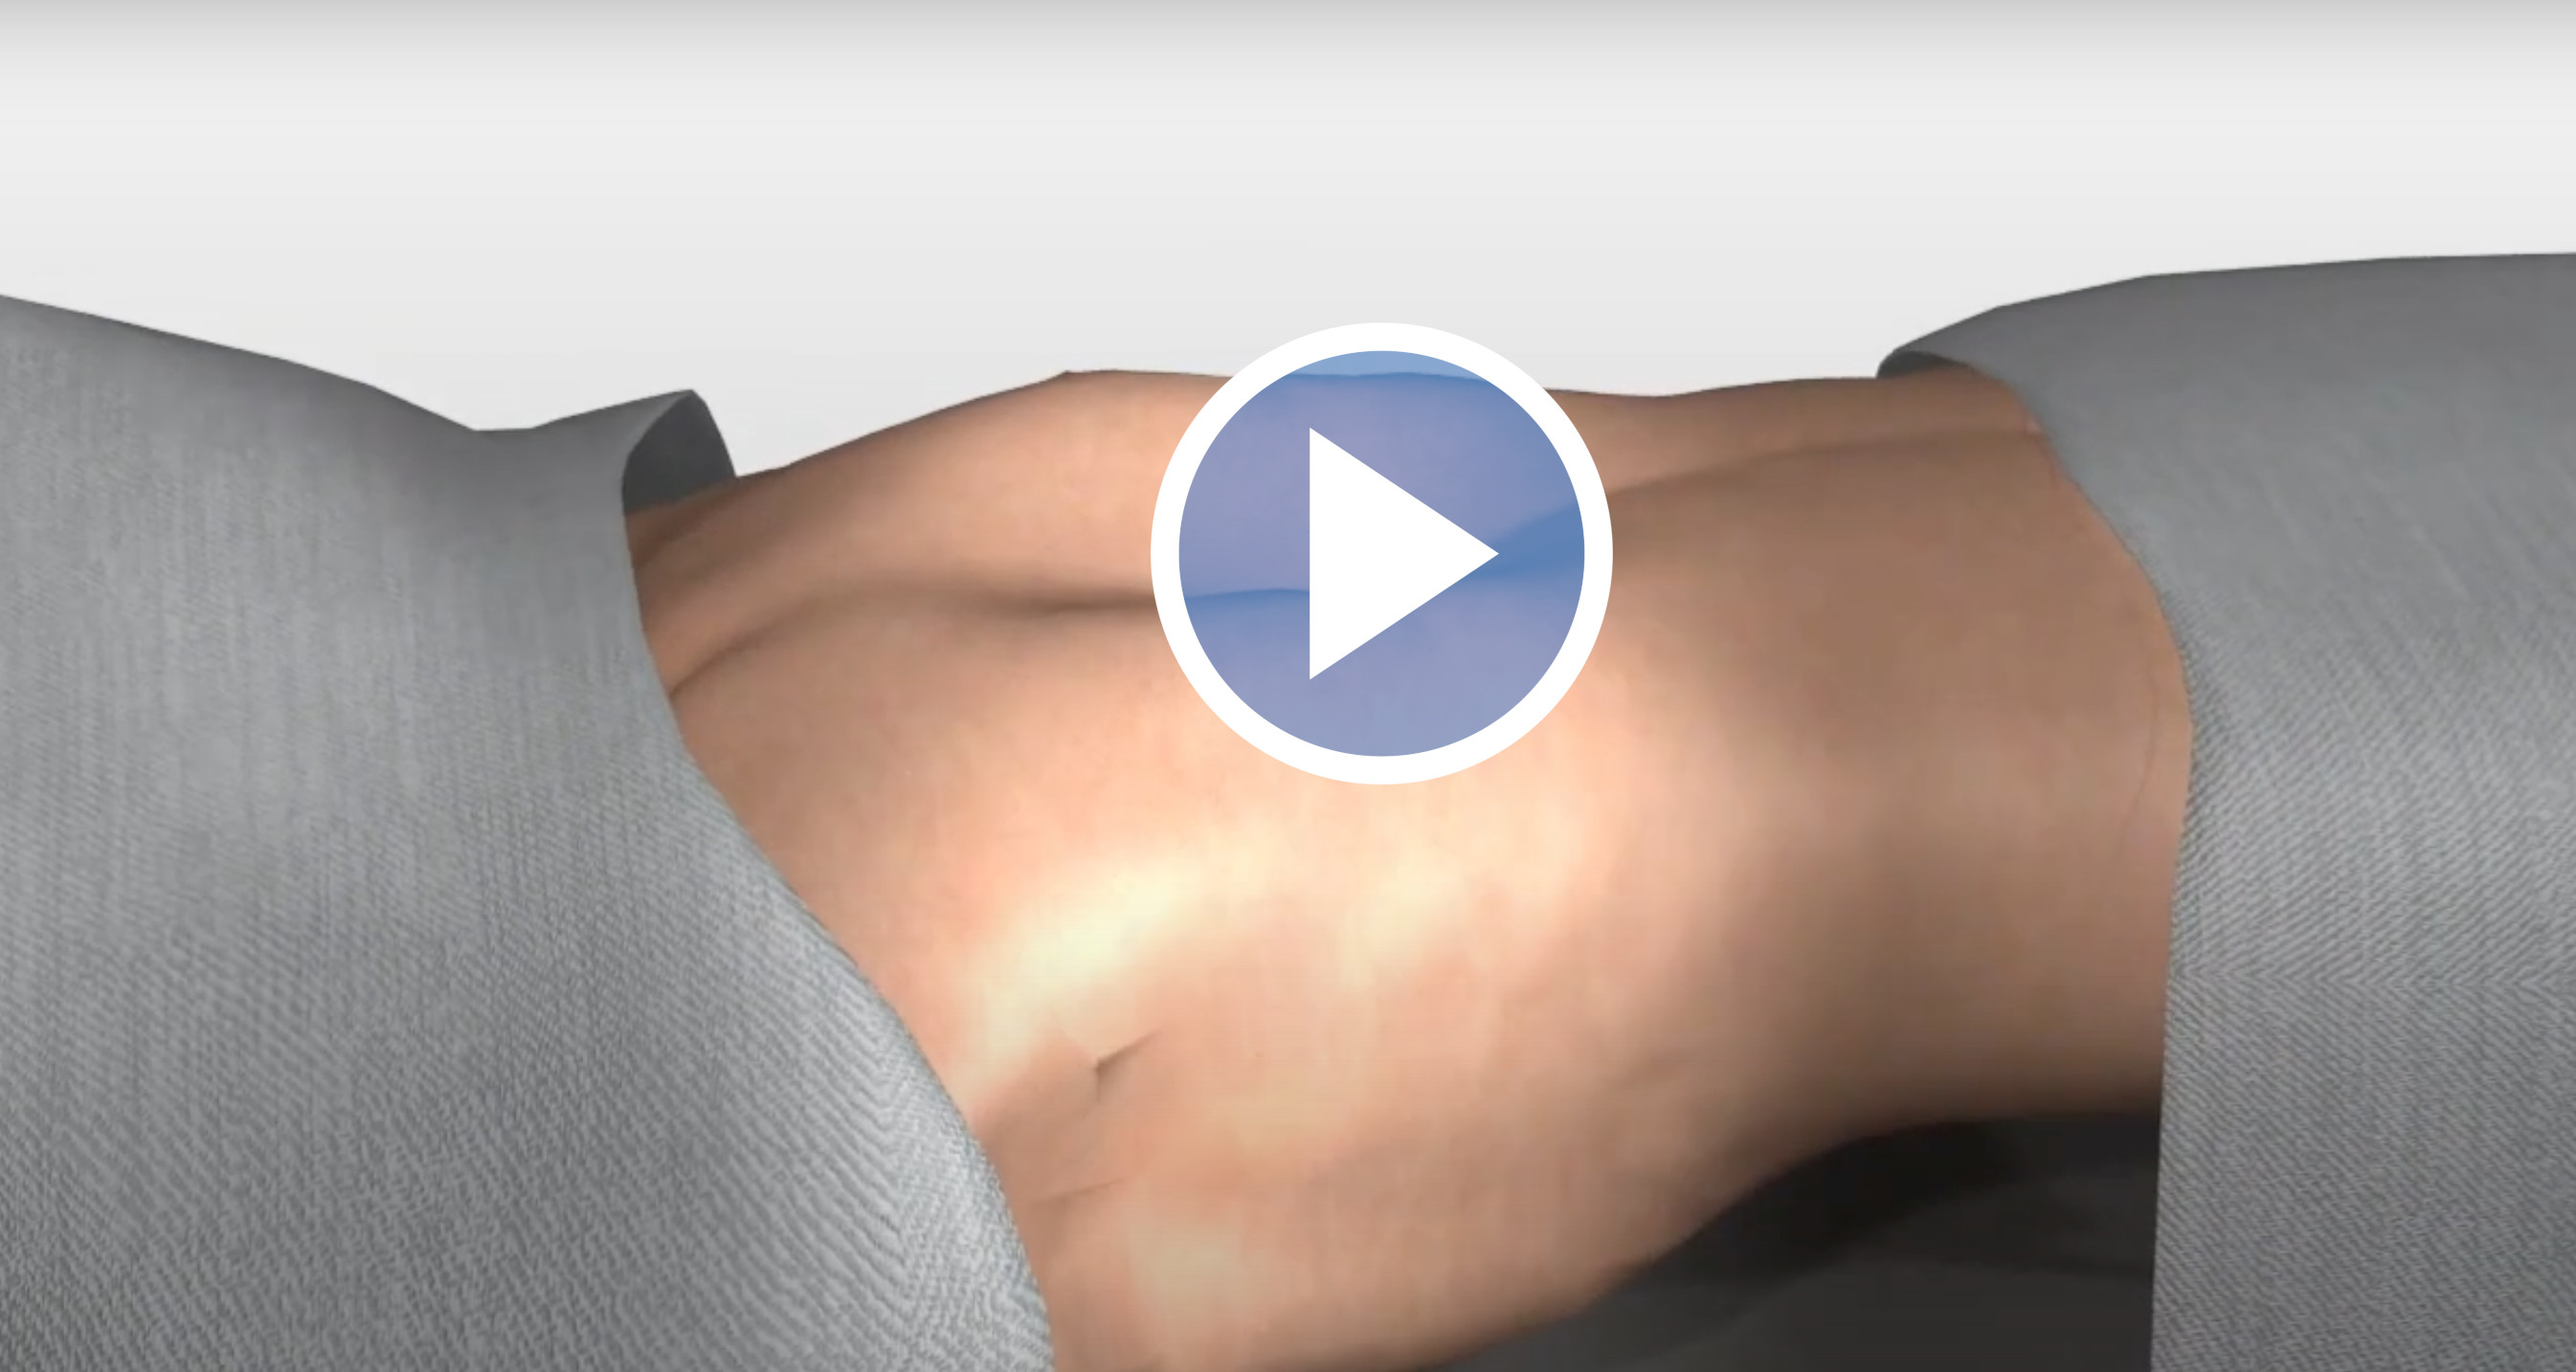
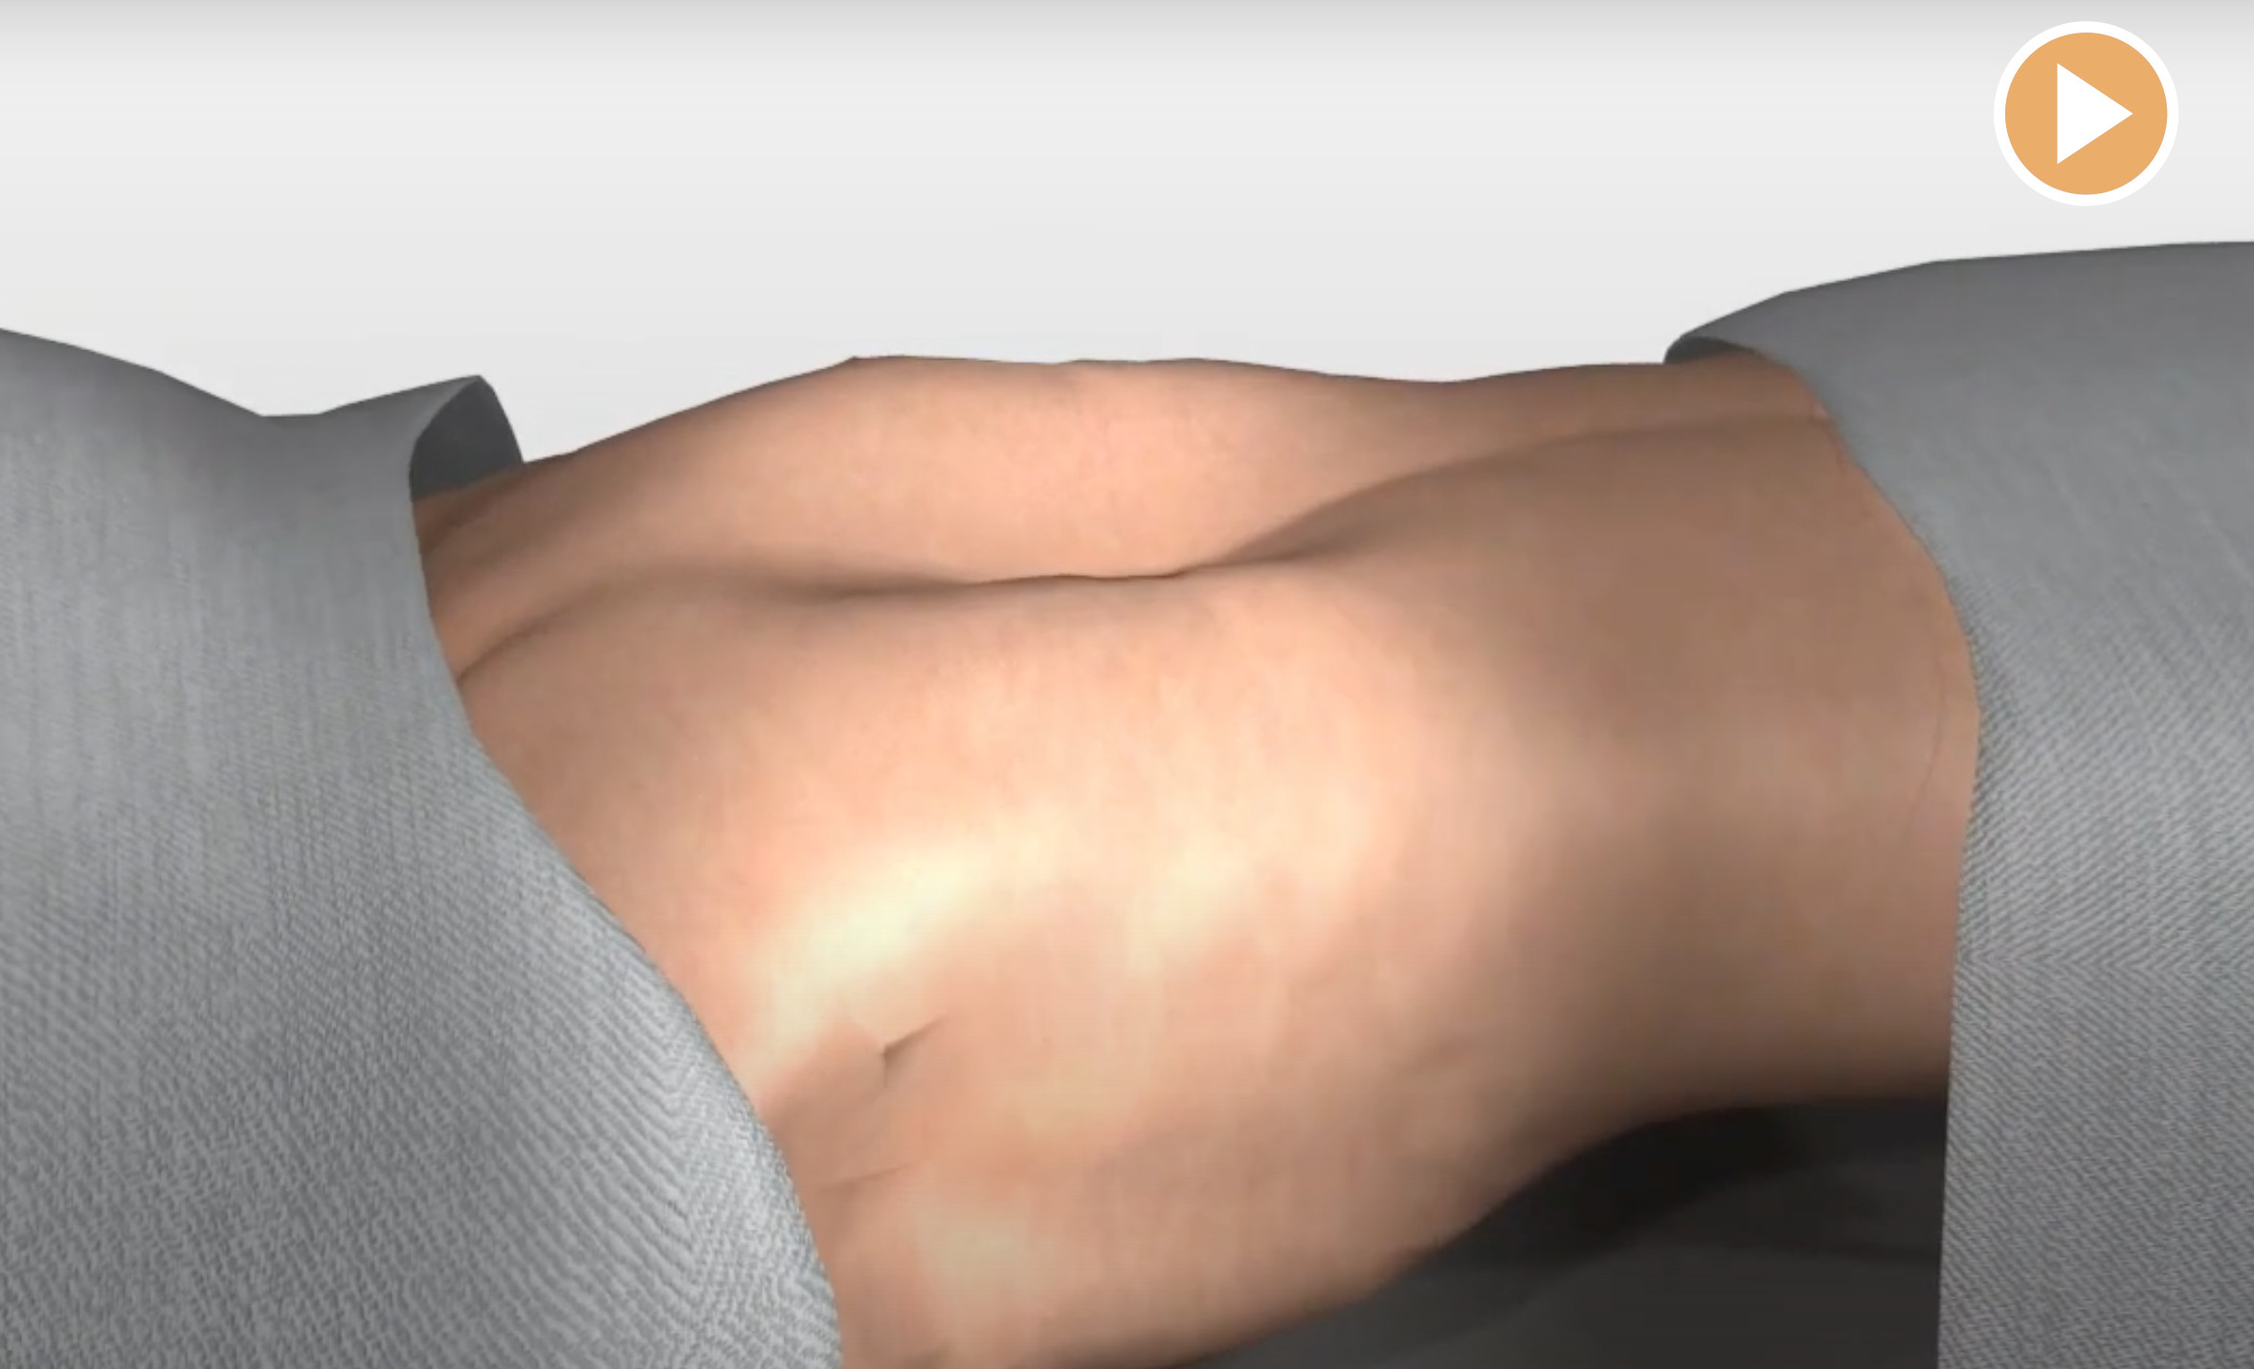
new modifications

Changed region(s): [[0.0, 0.2152, 0.8989, 1.0], [0.8059, 0.0, 1.0, 0.2152]]

diff --git a/src/components/STVideos/STVideos.jsx b/src/components/STVideos/STVideos.jsx
@@ -1,0 +1,266 @@
+// import React, { useRef, useState } from "react";
+import "swiper/css/bundle";
+import { Swiper, SwiperSlide } from "swiper/react";
+
+import "swiper/css";
+import "swiper/css/navigation"
+
+import SwiperCore, {
+  Navigation
+} from 'swiper';
+
+SwiperCore.use([Navigation]);
+
+
+const techniques = [
+    {
+      title: 'Magic String Park Technique',
+      sub: 'This technique relieves focal parasternal protrusions after pectus bar repair of PE, which are often emerging in asymmetric deformities. ',
+      image: "/img/video-sub1.jpg",
+      watch:  'https://www.youtube.com/watch?v=19JLb0tJEIc',
+    },
+    {
+        title: 'Flare buster Park Technique',
+        sub: 'This technique relieves lower costal flaring following pectus bar repair of PE to make the chest wall anatomically correct.',
+        image: "/img/video-sub2.jpg",
+        watch:  'https://www.youtube.com/watch?v=OzhnzequyFs',
+    },
+    {
+        title: 'Pectus Carinatum Repair - Hook Puller',
+        sub: 'Park Technique for Pectus Carinatum Repair Hook Puller',
+        image: "/img/video-sub3.jpg",
+        watch:  'https://www.youtube.com/watch?v=E0xH6ro9RU4',
+    },
+    {
+        title: 'Pectus Carinatum Repair - Easy Compressor',
+        sub: 'Park Technique: Carinatum Sandwich Technique Easy Compressor',
+        image: "/img/video-sub4.jpg",
+        watch:  'https://www.youtube.com/watch?v=fHBpWnOpqyM',
+    },
+    {
+        title: 'Pectus Excavatum Repair - Easy Crane',
+        sub: 'Park Technique for Pectus Excavatum Repair, Easy Crane',
+        image: "/img/video-sub5.jpg",
+        watch:  'https://www.youtube.com/watch?v=uAZlgtyU6nA',
+      },
+   
+  ] 
+
+export default function Index() {
+  return (
+      <div className>
+           <div className="sm:flex-auto text-center">
+            <h1 className="text-2xl font-bold  text-gray-600 text-center">More Surgical Techniques using Park's Pectus System Set </h1>
+            <h1 className="text-xl  text-gray-400 text-center">The videos below continue to demonstrate the versatility of the Park's Pectus System Set</h1>
+        </div>
+          <div className="py-12 flex lg:flex-row flex-col items-start lg:items-center justify-between ">
+              
+        <div className="mx-4 md:w-2/3 lg:w-auto md:mx-6 xl:ml-20  flex flex-col justify-start items-start">
+          <h1 className="text-xl md:text-2xl xl:text-4xl font-semibold leading-6 xl:leading-10 text-gray-600">Park's Pectus System <span className="text-[#C49A69]">Videos</span>.</h1>
+          <p className="mt-4 text-base leading-normal text-gray-600">See how this state-of-the-art Pectus system is used in chest wall deformity correction.  </p>
+          {/* <button className="w-full md:w-auto text-center mt-6 bg-[#C49A69] hover:-translate-y-1 ease-in-out transition duration-300 rounded">
+            <p className="text-base py-4 px-6 font-medium leading-none text-white">Find your industry</p>
+          </button> */}
+        </div>
+        <div className="mainDiv pl-4 md:pl-6 ">
+          <div className="h-5 mt-6 mb-4 md:mt-0 lg:mb-0 flex justify-end items-end space-x-6 ">
+            <button aria-label="back"  className=" swiper-button-prev">
+              <img className src="https://tuk-cdn.s3.amazonaws.com/can-uploader/content_9_svg1.svg" alt="back" />
+            </button>
+            <button aria-label="next"  className=" swiper-button-next">
+              <img className=" transform rotate-180" src="https://tuk-cdn.s3.amazonaws.com/can-uploader/content_9_svg1.svg" alt="next" />
+            </button>
+          </div>
+          <Swiper
+            slidesPerView={'auto'} slidesPerGroupSkip={3} grabCursor={true} loopFillGroupWithBlank={true} loop={true}
+          navigation={{
+            prevEl: '.swiper-button-prev',
+            nextEl: '.swiper-button-next',
+          }}
+
+          breakpoints={{
+            // when window width is >= 320px
+            "320": {
+            slidesPerView: "auto",
+            spaceBetween: 24,
+            },
+            // when window width is >= 480px
+            "480": {
+            slidesPerView: "auto",
+            spaceBetween: 24,
+            },
+            // when window width is >= 640px
+            "640": {
+            slidesPerView: "auto",
+            spaceBetween: 24,
+            },
+            "1024": {
+                slidesPerView: "auto",
+            spaceBetween: 32,
+            },
+            "1336": {
+            slidesPerView: 3,
+            spaceBetween: 32
+            }
+          }}
+           className="swiper mySwiper">
+            {techniques.map((technique, techniqueIdx) => (
+              <SwiperSlide className="swiper-slide shadow-xl mb-10 mt-5  rounded-xl ">
+                <div className="flex flex-col  space-y-4">
+                  <div className="rounded-t-xl  group cursor-pointer relative flex justify-center items-center">
+                    <a href={technique.watch} target="_blank" rel="noreferrer"><img className="rounded-t-xl  " src={technique.image} alt={technique.title} /></a> 
+                  </div>
+                  <div className="px-4 py-6 rounded-b-xl w-full flex justify-between  flex-col items-start ">
+                    <p className="text-xs leading-none text-gray-600 text-left">{technique.sub} </p>
+                                  <p className="mt-3 text-base font-semibold leading-none text-gray-800"><a href={technique.watch} target="_blank" rel="noreferrer">{technique.title}</a> </p>
+                                  
+                                  <button className="mt-6 hover:-translate-y-1 transition duration-500 ease-in-out flex justify-start items-center space-x-3">
+                                      
+                      {/* <p className="text-sm leading-none text-green-800">Find out more</p> */}
+                      {/* <div className="w-4 ">
+                        <img src="https://tuk-cdn.s3.amazonaws.com/can-uploader/content_9_svg-2.svg" alt="arrow" />
+                      </div> */}
+                    </button>
+                  </div>
+                </div>
+              </SwiperSlide>
+                ))}
+            </Swiper>
+          </div>
+        </div>
+
+        <style>
+{`
+.mainDiv {
+position: relative;
+width: 100%
+}
+
+.swiper-button-next::after,
+.swiper-button-prev::after {
+    content: "";
+}
+
+.swiper-wrapper{
+    display: flex;
+    align-items: center;
+} 
+
+.swiper-button-next,
+.swiper-button-prev {
+    position: relative;
+    height: 24px;
+    width: 24px;
+}
+
+.swiper {
+  
+    height: 100%;
+}
+.swiper-slide:nth-child(n) {
+width: 70%;
+}
+
+.swiper-slide:nth-child(2n) {
+width: 70%;
+}
+
+@media (min-width: 768px) { 
+
+.swiper-slide:nth-child(n) {
+width: 35%;
+}
+
+.swiper-slide:nth-child(2n) {
+width: 35%;
+}
+}
+@media (min-width: 1024px) { 
+.mainDiv {
+position: relative;
+height: 100%;
+padding: 20px;
+width: 70%
+} 
+
+.swiper-button-next,
+.swiper-button-prev {
+    position: relative;
+    height: 32px;
+    width: 32px;
+}
+.swiper-slide:nth-child(n) {
+width: 40%;
+}
+
+.swiper-slide:nth-child(2n) {
+width: 40%;
+}
+.swiper-slide:nth-child(3n) {
+width: 40%;
+}
+}
+
+@media (min-width: 1536px) { 
+.mainDiv {
+position: relative;
+height: 100%;
+padding: 40px;
+width: 75%
+} 
+
+.swiper-button-next,
+.swiper-button-prev {
+    height: 40px;
+    width: 40px;
+}
+
+.swiper-slide:nth-child(n) {
+width: 30%;
+}
+
+.swiper-slide:nth-child(2n) {
+width: 30%;
+}
+.swiper-slide:nth-child(3n) {
+width: 30%;
+}
+.swiper-slide:nth-child(4n) {
+width: 30%;
+}
+}   
+
+.swiper-slide {
+    
+    text-align: center;
+    font-size: 18px;
+    /* Center slide text vertically */
+    display: -webkit-box;
+    display: -ms-flexbox;
+    display: -webkit-flex;
+    display: flex;
+    -webkit-box-pack: center;
+    -ms-flex-pack: center;
+    -webkit-justify-content: center;
+    justify-content: center;
+    -webkit-box-align: center;
+    -ms-flex-align: center;
+    -webkit-align-items: center;
+    align-items: center;
+}
+.swiper-slide img {
+   
+    width: 660px;
+    object-fit: cover;
+}
+
+
+`}
+
+</style>
+    </div>
+
+
+
+  )
+}

diff --git a/src/components/Featured/Featured.jsx b/src/components/Featured/Featured.jsx
@@ -13,7 +13,7 @@ const features = [
         <div className="bg-white" id='featured'>
         <div className="mx-auto grid max-w-2xl grid-cols-1 items-center gap-y-16 gap-x-8 py-2 px-4 sm:px-6 sm:py-16 lg:max-w-7xl lg:grid-cols-2 lg:px-8">
                 <div>
-                    <h1 className="text-green-800">Featured Product</h1>
+                    <h1 className="text-[#C49A69]">Featured Product</h1>
                     <h2 className="text-3xl font-bold tracking-tight text-gray-600 sm:text-4xl">Park's Pectus System Set</h2>
                     <h3 className="text-2xl font-bold tracking-tight text-gray-400 sm:text-3xl">Technical Specifications</h3>
             <p className="mt-4 text-gray-500">
@@ -29,7 +29,7 @@ const features = [
               ))}
                     </dl>
                     <div className="flex justify-end ">
-                        <button className="border border-1 px-6 py-2 mt-5 rounded-md bg-green-800 text-white"><a href="#contact">Place your order here</a></button>
+                        <button className="border border-1 px-6 py-2 mt-5 rounded-md bg-[#C49A69] text-white"><a href="#contact">Place your order here</a></button>
                     </div>
           </div>
           <div className="grid grid-cols-2 grid-rows-2 gap-4 sm:gap-6 lg:gap-8">

diff --git a/src/components/NewHeader/NewHeader.jsx b/src/components/NewHeader/NewHeader.jsx
@@ -189,7 +189,7 @@ export default function NewHeader() {
                   <input type="hidden" name="_cc" value="oidowu@msn.com,jireidowu@gmail.com" /> */}
                   <button
                     type="submit"
-                    className="mt-3 w-full rounded-md border border-transparent bg-green-800 px-6 py-3 text-base font-medium text-white shadow-sm hover:bg-gray-900 focus:outline-none focus:ring-2 focus:ring-green-500 focus:ring-offset-2 sm:mt-0 sm:ml-3 sm:inline-flex sm:w-auto sm:flex-shrink-0 sm:items-center"
+                    className="mt-3 w-full rounded-md border border-transparent bg-[#C49A69] px-6 py-3 text-base font-medium text-white shadow-sm hover:bg-gray-900 focus:outline-none focus:ring-2 focus:ring-green-500 focus:ring-offset-2 sm:mt-0 sm:ml-3 sm:inline-flex sm:w-auto sm:flex-shrink-0 sm:items-center"
                   >
                     Notify me
                   </button>

diff --git a/src/components/SurgicalTechniques/SurgicalTechniques.jsx b/src/components/SurgicalTechniques/SurgicalTechniques.jsx
@@ -1,4 +1,4 @@
-import SurgicalTechniquesTable from "../SurgicalTechniquesTable/SurgicalTechniquesTable"
+// import SurgicalTechniquesTable from "../SurgicalTechniquesTable/SurgicalTechniquesTable"
 // import sgt from "../sgt/sgt"
 
 const features = [
@@ -35,7 +35,7 @@ const features = [
               Park's Pectus system set is easy to use yet advanced. You can apply the latest and most modern techniques used in surgical theatres. 
             </p>
           </div>
-  
+   
           <div className="mt-16 space-y-16">
             {features.map((feature, featureIdx) => (
               <div
@@ -69,7 +69,7 @@ const features = [
             ))}
           </div>
           {/* <div><img src="/img/technique.png" alt="" /></div> */}
-          <SurgicalTechniquesTable />
+          {/* <SurgicalTechniquesTable /> */}
         </div>
       </div>
     )

diff --git a/src/components/SurgicalTechniquesTable/SurgicalTechniquesTable.jsx b/src/components/SurgicalTechniquesTable/SurgicalTechniquesTable.jsx
@@ -139,10 +139,7 @@ const people = [
       <div className="px-4 sm:px-6 lg:px-8 mt-[50px]">
         <div className="sm:flex sm:items-center">
           <div className="sm:flex-auto text-center">
-            {/* <h1 className="text-xl font-semibold text-gray-900">Users</h1> */}
-            {/* <p className="mt-2 text-sm text-gray-700">
-              A list of all the users in your account including their name, title, email and role.
-            </p> */}
+          
                     <h1 className="text-2xl font-bold  text-gray-600 text-center">More Surgical Techniques using Park's Pectus System Set </h1>
                     <h1 className="text-xl  text-gray-400 text-center">The videos below continue to demonstrate the versatility of the Park's Pectus System Set</h1>
                   

diff --git a/src/pages/Home/Home.jsx b/src/pages/Home/Home.jsx
@@ -8,6 +8,7 @@ import React from 'react'
 // import Contact from '../Contact/Contact'
 // import ImageIndex from  '../../img/img_index.jpg'
 // import {Link} from 'react-router-dom'
+import STVideos from '../../components/STVideos/STVideos'
 import Featured from '../../components/Featured/Featured'
 import NewHeader from '../../components/NewHeader/NewHeader'
 // import Contact from '../../components/Contact/Contact'
@@ -39,7 +40,10 @@ const Home = () => {
           </div>
           <div id='techniques'>
             <SurgicalTechniques />
-          </div>
+      </div>
+      <div>
+        <STVideos />
+      </div>
           <div id='product-list'>
             <Products />
       </div>

diff --git a/src/components/Products/Products.jsx b/src/components/Products/Products.jsx
@@ -12,7 +12,11 @@ const Products = () => {
       
       <div className=' mb-20'>
         <div className='flex justify-center flex-col text-center'>
-          <h1 className="text-green-800">Product List</h1>
+          {/* <h1 className="text-green-800">Product List</h1> */}
+          <div className="sm:flex-auto text-center">
+            <h1 className="text-2xl font-bold  text-gray-600 text-center">Product List </h1>
+            <h1 className="text-xl  text-gray-400 text-center">A listing of our products</h1>
+        </div>
           {/* <h2 className="text-3xl font-bold tracking-tight text-gray-600 sm:text-4xl">Park's Pectus System</h2> */}
         </div>
       

diff --git a/src/components/Contact1/Contact1.jsx b/src/components/Contact1/Contact1.jsx
@@ -176,7 +176,7 @@ export default function Contact1() {
                         placeholder="Phone"
                         required
                         />
-                    \</div>
+                    </div>
                                 
                     <div>
                         <label htmlFor="email" className="sr-only">
